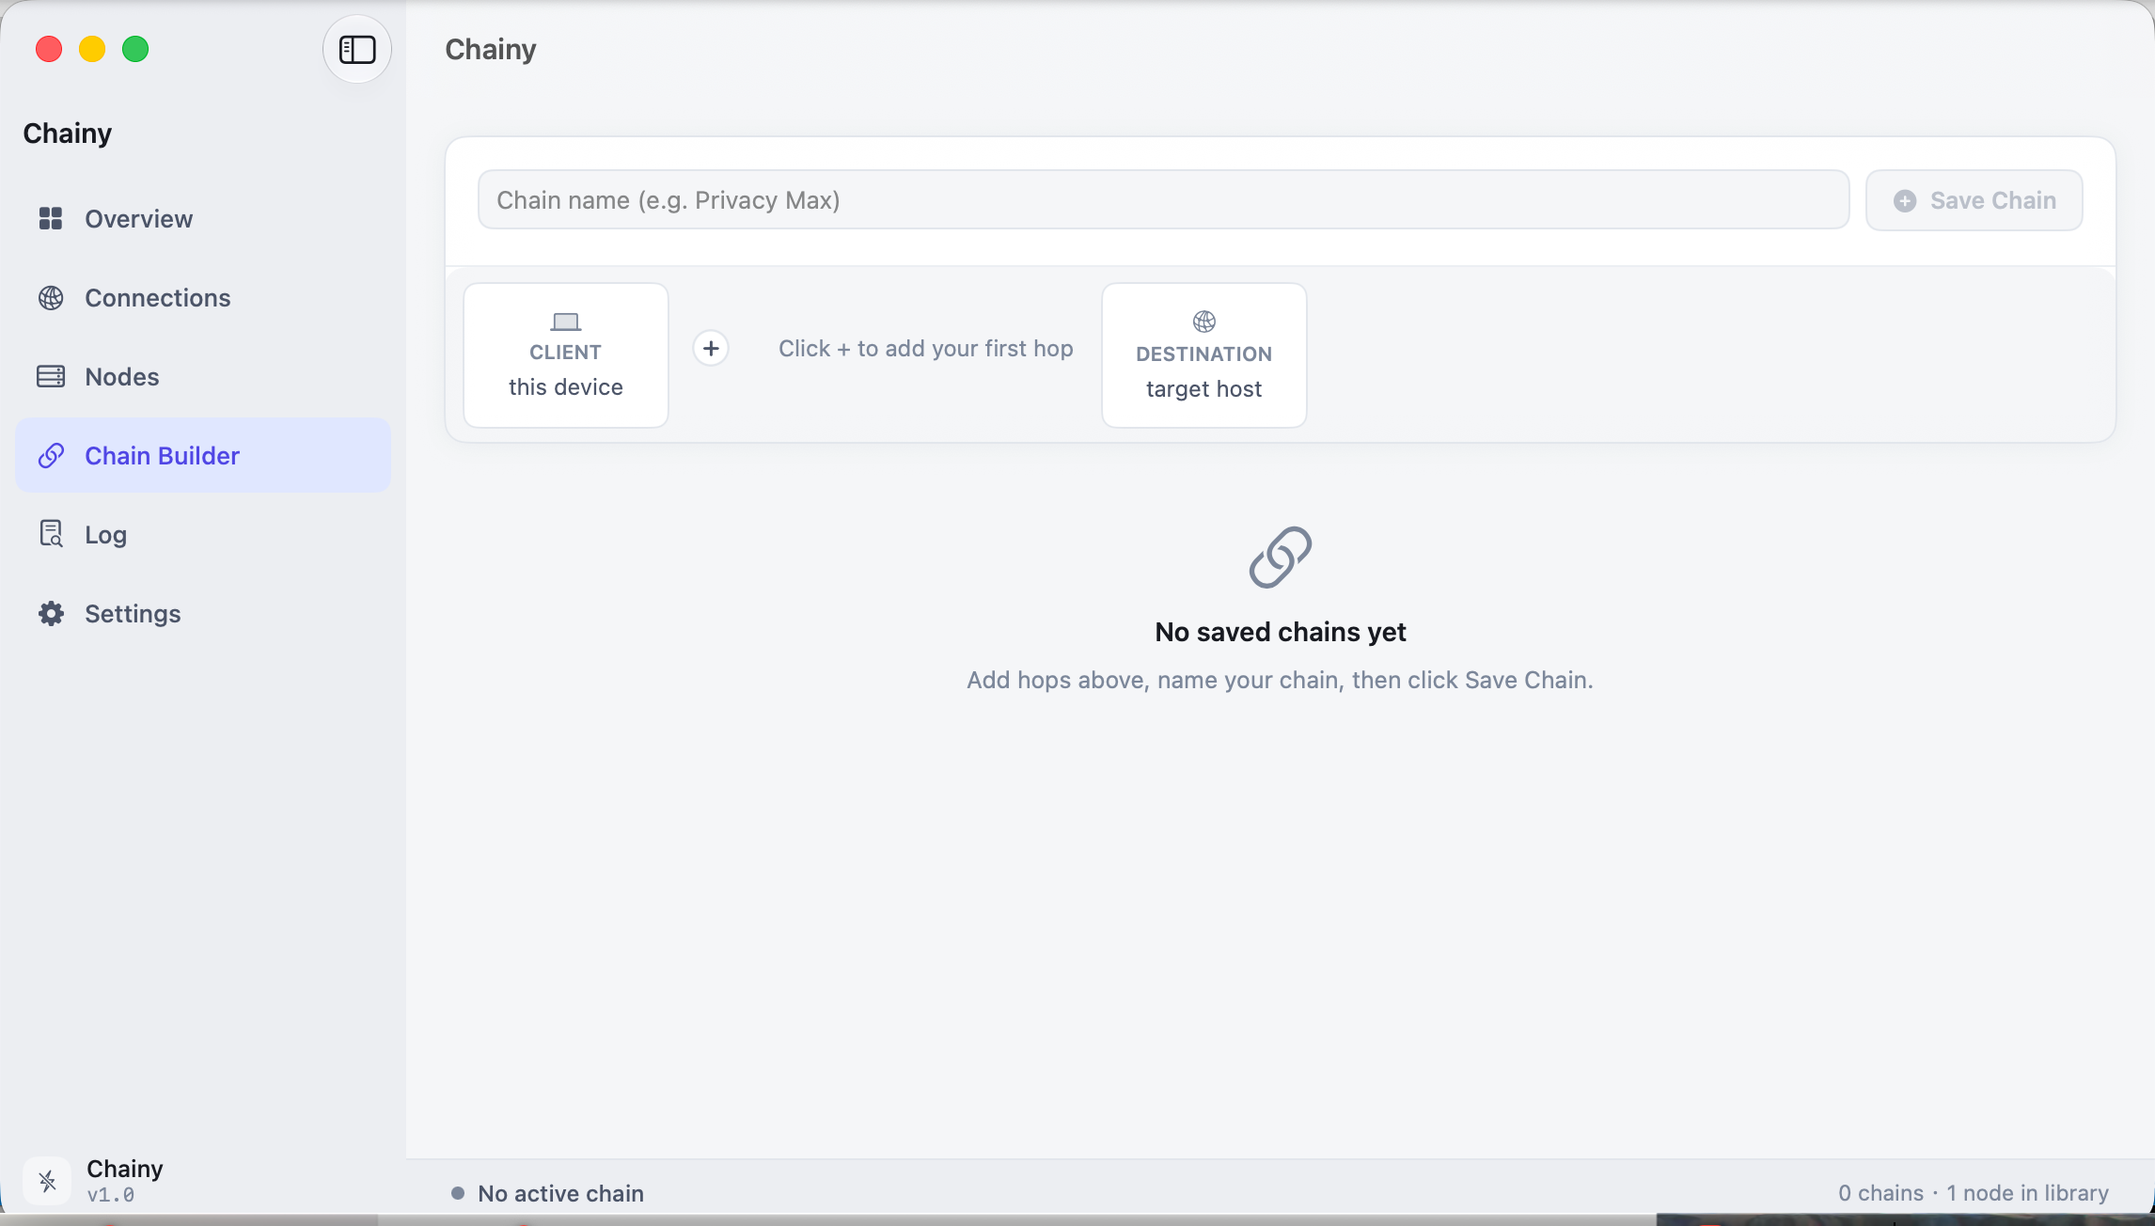
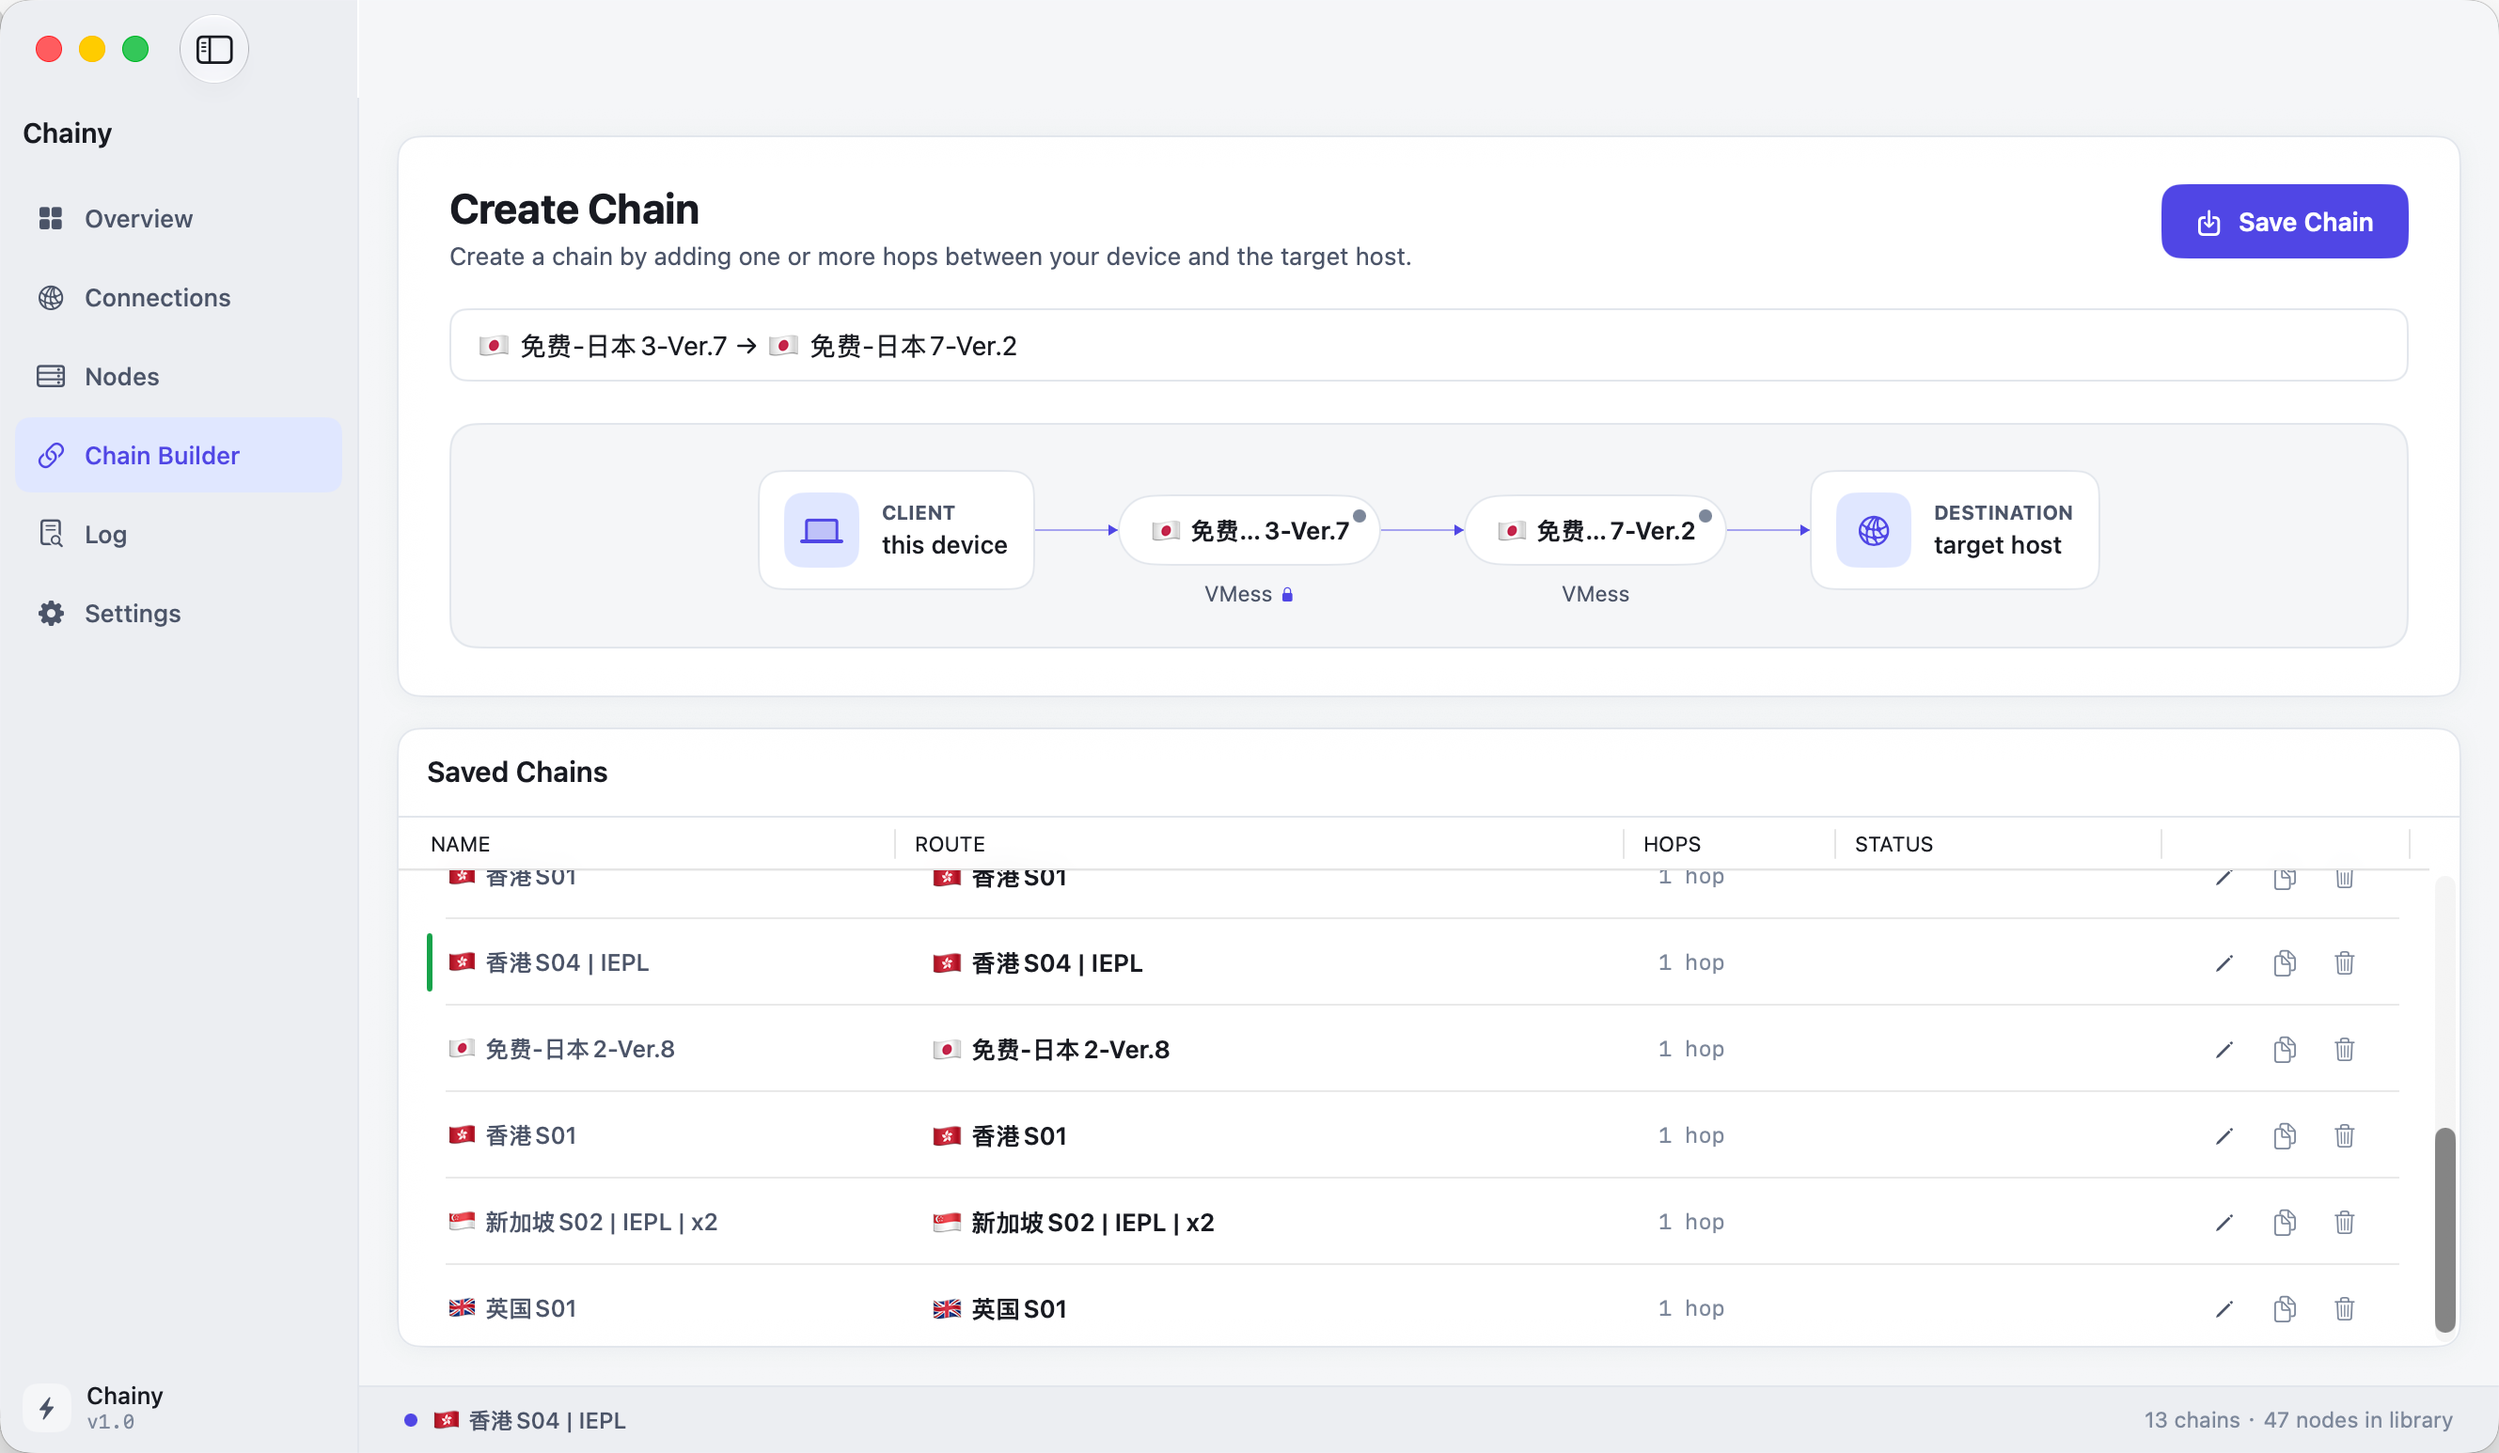
Feature chain builder screenshot in README

diff --git a/README.md b/README.md
@@ -13,9 +13,15 @@ Chainy runs locally and combines VMess, Trojan, Shadowsocks, VLESS, SOCKS5, and 
 
 ## Screenshots
 
-| Overview | Chain Builder | Nodes |
-|---|---|---|
-| ![Overview](docs/screenshots/overview.png) | ![Chain Builder](docs/screenshots/chain-builder.png) | ![Nodes](docs/screenshots/nodes.png) |
+### Build multi-hop routes visually
+
+<p align="center">
+  <img src="docs/screenshots/chain-builder.png" alt="Chainy visual chain builder showing a two-hop route" width="900">
+</p>
+
+| Monitor the active route | Manage imported nodes |
+|---|---|
+| ![Chainy overview with live connection statistics](docs/screenshots/overview.png) | ![Chainy node library](docs/screenshots/nodes.png) |
 
 ## Download
 
